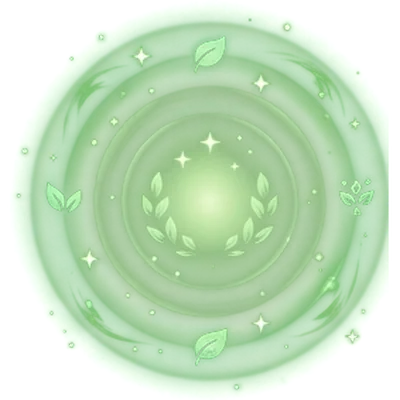
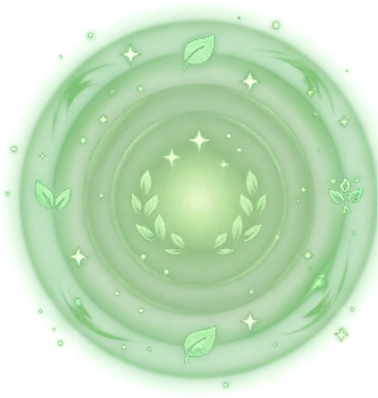
ออร่าใหญ่กว่าตัวละคร สูง 150% กว้างตามสัดส่วนภาพ
Claude-Session: https://claude.ai/code/session_01K5hYZCSMYKBWhWem2dEZti

diff --git a/style.css b/style.css
@@ -412,7 +412,7 @@ textarea.code { width: 100%; height: 76px; margin: 8px 0; padding: 8px; border-r
 .hero-art > .skin-img { margin: 0 auto; }
 .stage .hero-art .skin-img.face-left { transform: scaleX(-1); }
 .hero-u .hero-art { animation: idle 2s ease-in-out infinite; }
-.aura-layer { position: absolute; z-index: 0; left: 50%; top: 46%; height: 135%; width: auto; aspect-ratio: 1; transform: translate(-50%,-50%); pointer-events: none; max-width: none; }
+.aura-layer { position: absolute; z-index: 0; left: 50%; top: 47%; height: 150%; width: auto; transform: translate(-50%,-50%); pointer-events: none; max-width: none; }
 .au-pulse { animation: auPulse 2.6s ease-in-out infinite; }
 @keyframes auPulse { 0%,100% { transform: translate(-50%,-50%) scale(.96); opacity: .85; } 50% { transform: translate(-50%,-50%) scale(1.04); opacity: 1; } }
 .au-spin { animation: auSpin 90s linear infinite; }

diff --git a/sw.js b/sw.js
@@ -1,6 +1,6 @@
 /* Service worker: เล่นได้แม้ไม่มีเน็ต
    ไฟล์เกม = ดึงจากเน็ตก่อน (ได้เวอร์ชันล่าสุดเสมอ) ถ้าออฟไลน์ใช้ของที่เก็บไว้ */
-const CACHE = 'thai-rpg-v30';
+const CACHE = 'thai-rpg-v31';
 const CORE = ['./', 'index.html', 'style.css', 'hero.js', 'monsters.js', 'battle2d.js', 'features.js', 'cosmetics.js', 'tower.js', 'game.js', 'bg/worldmap.webp', 'bg/worldmap2.webp', ...['forest','cave','desert','volcano','swamp','ice','sea','sky','spirit','castle'].map((z) => `bg/${z}.webp`),
   'manifest.webmanifest', 'icon-192.png', 'icon-512.png'];
 
